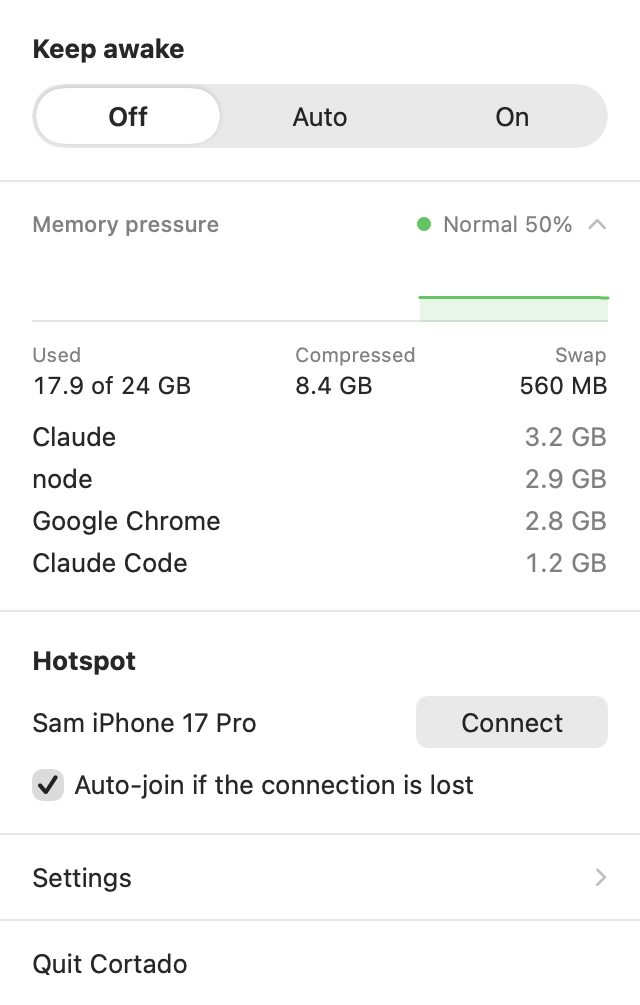
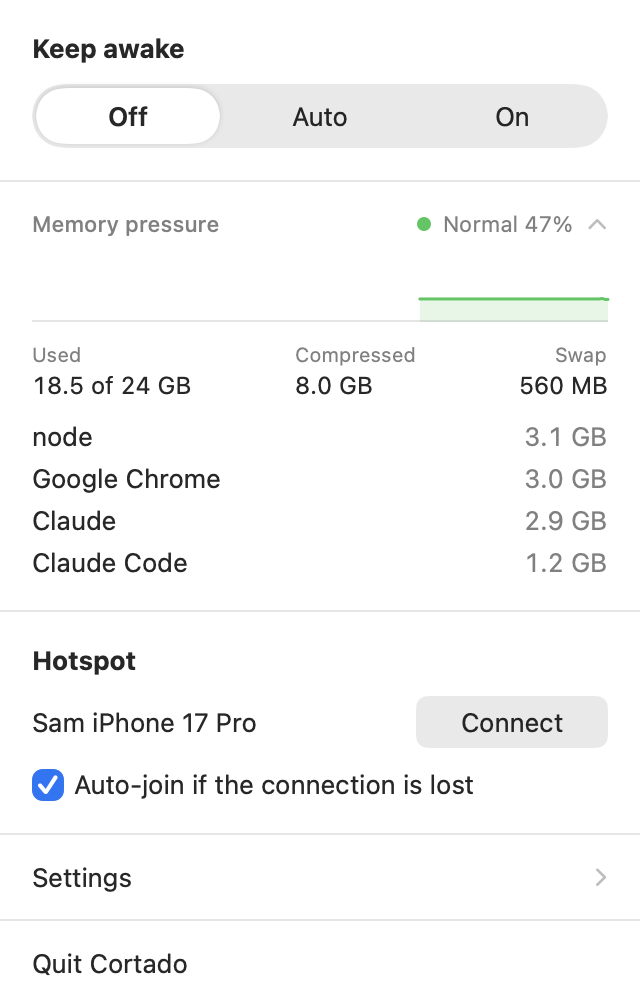
Show the panel in the README
Three panels under the intro, Settings beside the early-stop rules, and
the menu bar cup and the opened memory line in the Memory section.

The snapshot tool draws controls in their active state, so the checkbox
comes out in the accent colour as it does in the real popover.

diff --git a/Sources/Cortado/Snapshot.swift b/Sources/Cortado/Snapshot.swift
@@ -66,6 +66,7 @@ enum Snapshot {
             .environment(model)
             .background(Color(nsColor: .windowBackgroundColor))
             .environment(\.colorScheme, scheme)
+            .environment(\.controlActiveState, .key)
         let host = NSHostingView(rootView: content)
         host.appearance = NSAppearance(named: scheme == .dark ? .darkAqua : .aqua)
         host.frame = NSRect(origin: .zero, size: host.fittingSize)

diff --git a/README.md b/README.md
@@ -6,6 +6,10 @@ A small menu bar app for running coding agents on a MacBook: keep the Mac awake
 with the lid closed for a set time, watch memory pressure, and fall back to a
 phone hotspot when the internet drops.
 
+| Auto, waiting for an agent | Auto, while an agent works | On, for a set time |
+| --- | --- | --- |
+| <img src="docs/panel-idle.png" width="260" alt="The panel on Auto and off, waiting for an agent"> | <img src="docs/panel-agents.png" width="260" alt="The panel on Auto and on, until Claude Code finishes"> | <img src="docs/panel.png" width="260" alt="The panel on On, with the lengths under the control"> |
+
 ## Build
 
 ```sh
@@ -92,6 +96,8 @@ A session also ends early when any enabled rule fires (Settings):
 - **Agents have finished**: for On, once an agent has worked during it and then
   been quiet for the grace period. If no agent ever works, the timer decides.
 
+<img src="docs/settings.png" width="320" alt="Settings: the default length, the rules that end a session early, the hotspot, and open at login">
+
 When a session ends with the lid shut and no display attached, the Mac is put to
 sleep. With a display attached it is left alone, since someone may be using it.
 
@@ -119,10 +125,14 @@ turns yellow at the system's warning level and red at critical. The icon is
 drawn in colour, so it is not a template image; it takes the menu bar's light or
 dark colour each time it is drawn.
 
+<img src="docs/icons.png" width="360" alt="The menu bar icon at normal, warning and critical memory pressure, on a dark and a light menu bar">
+
 The panel gives it one line: the level and the figure. Clicking the line opens
 the rest, and the panel remembers which way it was left: ten minutes of history,
 used / compressed / swap, and the four apps using the most memory (your own
 processes only; system daemons don't report usage without privileges).
+
+<img src="docs/panel-memory.png" width="320" alt="The panel with the memory line opened: history, used, compressed, swap, and the four largest apps">
 
 ### Hotspot
 
